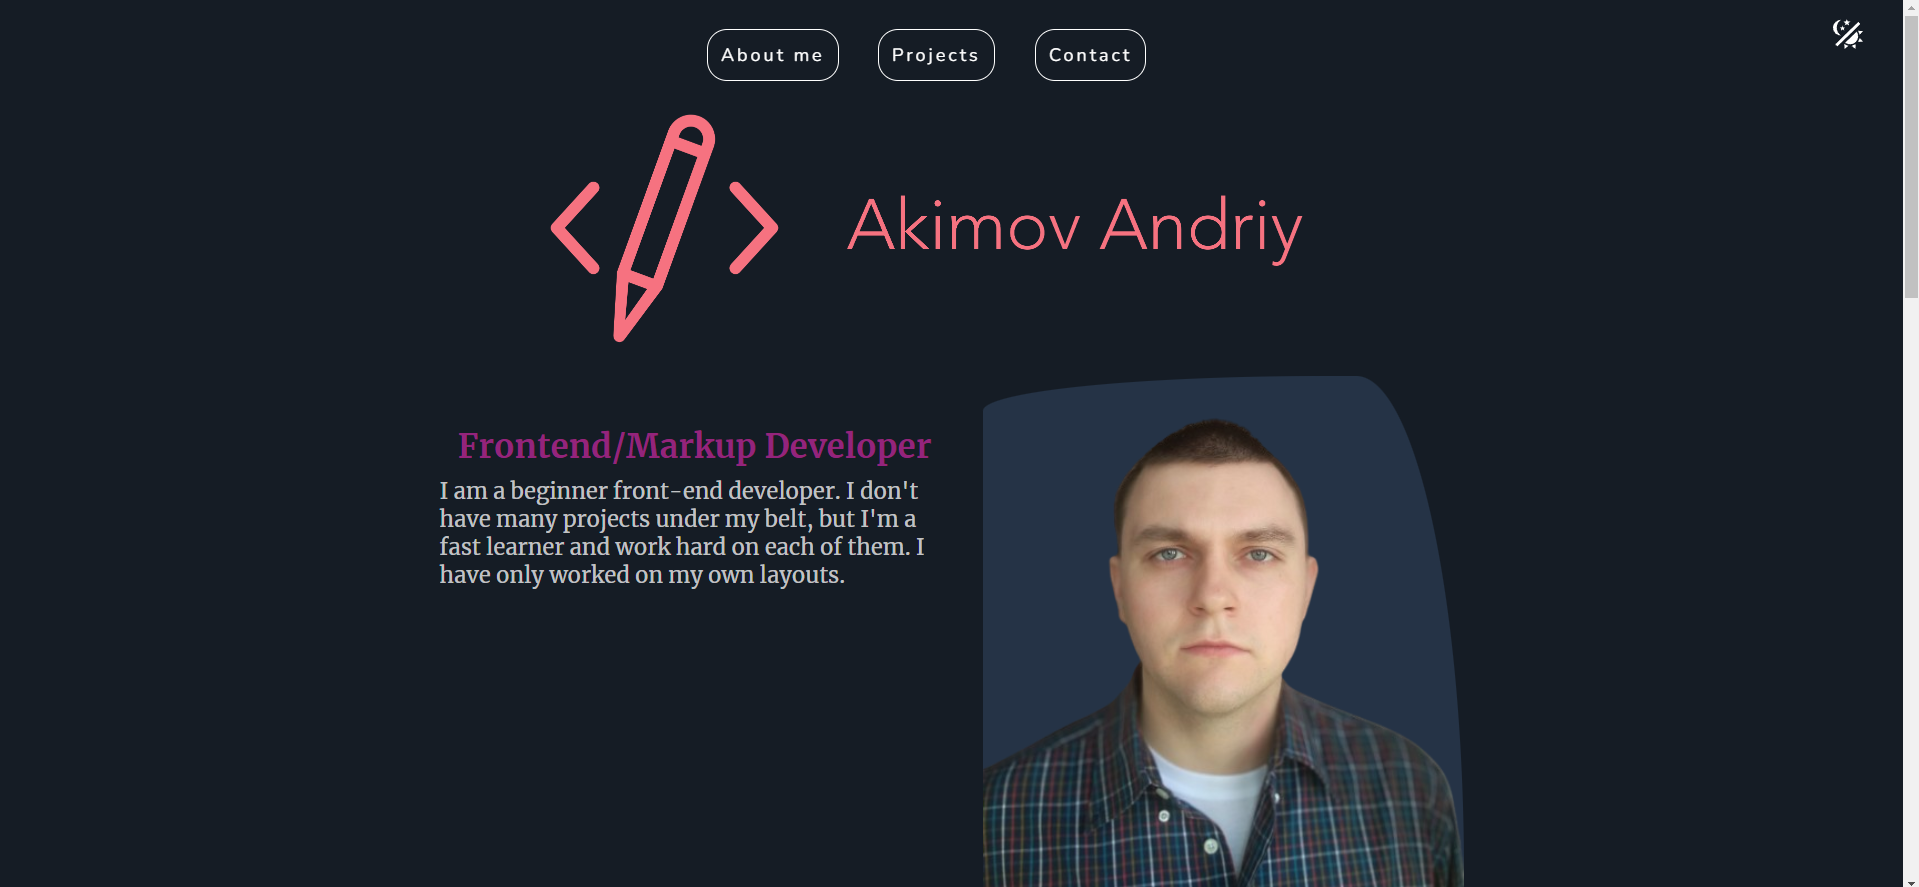
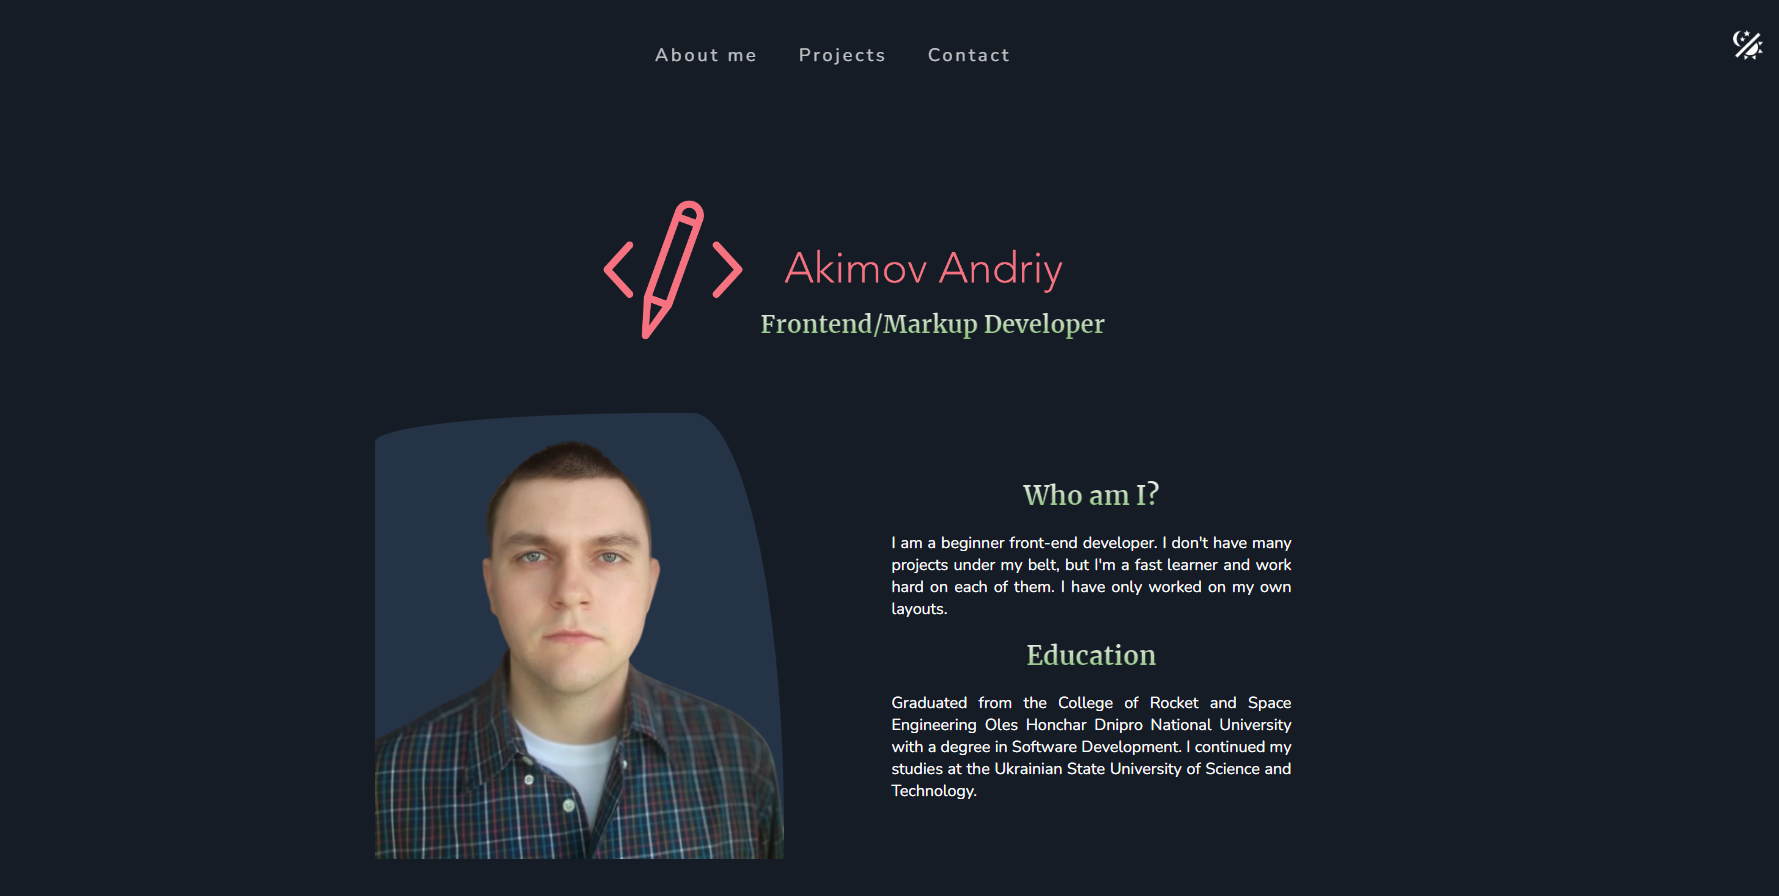
+

diff --git a/index.html b/index.html
@@ -81,7 +81,7 @@
                       layouts.
                     </p>
                   </div>
-                  <div class="containerDesk">
+                  <div id="sectionAbout" class="containerDesk">
                     <h3>Education</h3>
                     <p class="info">
                       Graduated from the College of Rocket and Space Engineering
@@ -96,7 +96,7 @@
           </div>
         </section>
         <span class="line"></span>
-        <section id="sectionAbout" class="wrapperContent sectionAbout">
+        <section class="wrapperContent sectionAbout">
           <div class="innerContent">
             <div class="containerAbout">
               <div class="photoAbout">
@@ -153,7 +153,9 @@
                   <img src="./img/about/css.png" alt="" />
                   <img src="./img/about/js.png" alt="" />
                 </div>
-                <a href="">Visit Site</a>
+                <a href="https://fudaraku.netlify.app/" target="_blank"
+                  >Visit Site</a
+                >
               </article>
               <article>
                 <div class="image">
@@ -175,6 +177,22 @@
         <span class="line"></span>
       </main>
       <footer id="footer">
+        <button class="ontop">
+          <svg
+            width="24"
+            height="24"
+            viewBox="0 0 24 24"
+            fill="none"
+            xmlns="http://www.w3.org/2000/svg"
+          >
+            <path
+              fill-rule="evenodd"
+              clip-rule="evenodd"
+              d="M12 22.5001C12.1989 22.5001 12.3896 22.4211 12.5303 22.2805C12.671 22.1398 12.75 21.949 12.75 21.7501V4.06062L17.469 8.78112C17.6098 8.92195 17.8008 9.00107 18 9.00107C18.1991 9.00107 18.3901 8.92195 18.531 8.78112C18.6718 8.64029 18.7509 8.44928 18.7509 8.25012C18.7509 8.05096 18.6718 7.85995 18.531 7.71912L12.531 1.71912C12.4613 1.64928 12.3785 1.59386 12.2874 1.55605C12.1963 1.51824 12.0986 1.49878 12 1.49878C11.9013 1.49878 11.8036 1.51824 11.7125 1.55605C11.6214 1.59386 11.5386 1.64928 11.469 1.71912L5.46897 7.71912C5.39924 7.78885 5.34392 7.87163 5.30619 7.96274C5.26845 8.05385 5.24902 8.1515 5.24902 8.25012C5.24902 8.44928 5.32814 8.64029 5.46897 8.78112C5.6098 8.92195 5.80081 9.00107 5.99997 9.00107C6.19913 9.00107 6.39014 8.92195 6.53097 8.78112L11.25 4.06062V21.7501C11.25 21.949 11.329 22.1398 11.4696 22.2805C11.6103 22.4211 11.8011 22.5001 12 22.5001Z"
+              fill="black"
+            />
+          </svg>
+        </button>
         <section class="wrapperContent">
           <div class="innerContent">
             <div class="footerContainer">

diff --git a/css/style.css b/css/style.css
@@ -424,7 +424,7 @@ header .dayNight {
   right: 20px;
   top: 30px;
   cursor: pointer;
-  background: rgb(21, 28, 37);
+  background: none;
   border: 0;
   transition: all 0.5s ease;
   will-change: transform;
@@ -801,6 +801,32 @@ header.active .menuToggle::after {
   will-change: transform;
 }
 
+footer {
+  position: relative;
+}
+footer .ontop {
+  cursor: pointer;
+  display: none;
+  position: absolute;
+  bottom: 30px;
+  right: 30px;
+  width: 80px;
+  height: 80px;
+  border-radius: 50%;
+  background: var(--purple);
+  transition: all 1s ease;
+  z-index: 20;
+  border: none;
+  box-shadow: 0 0 25px rgba(143, 65, 104, 0.7);
+}
+footer .ontop:hover {
+  transform: rotate(360deg);
+}
+@media screen and (min-width: 767px) {
+  footer .ontop {
+    display: block;
+  }
+}
 footer .footerContainer {
   margin-top: 100px;
   display: flex;

diff --git a/css/components/_footer.scss b/css/components/_footer.scss
@@ -1,4 +1,26 @@
 footer {
+  position: relative;
+  .ontop {
+    cursor: pointer;
+    display: none;
+    position: absolute;
+    bottom: 30px;
+    right: 30px;
+    width: 80px;
+    height: 80px;
+    border-radius: 50%;
+    background: var(--purple);
+    transition: all 1s ease;
+    z-index: 20;
+    border: none;
+    box-shadow: 0 0 25px rgba(143, 65, 104, 0.7);
+    &:hover {
+      transform: rotate(360deg);
+    }
+    @media screen and (min-width: 767px) {
+      display: block;
+    }
+  }
   .footerContainer {
     margin-top: 100px;
     display: flex;

diff --git a/scripts.js b/scripts.js
@@ -10,7 +10,6 @@ const toggleTheme = () => {
 
   if (root.classList.contains("light")) {
     element.querySelector(".text svg path").setAttribute("fill", "black");
-    element.style.background = "none";
   } else if (root.classList.contains("dark")) {
     element.querySelector(".text svg path").setAttribute("fill", "white");
   }
@@ -81,4 +80,7 @@ document.addEventListener("DOMContentLoaded", function () {
       body.classList.remove("lock");
     });
   });
+});
+window.addEventListener("beforeunload", function () {
+  window.scrollTo(0, 0);
 });

diff --git a/css/components/_header.scss b/css/components/_header.scss
@@ -106,7 +106,7 @@ header {
     right: 20px;
     top: 30px;
     cursor: pointer;
-    background: rgba(21, 28, 37, 1);
+    background: none;
     border: 0;
     transition: all 0.5s ease;
     will-change: transform;
